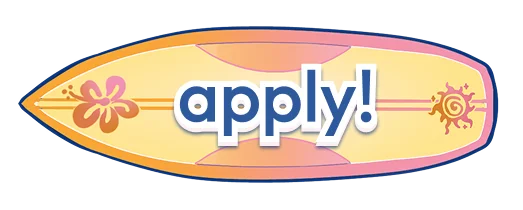
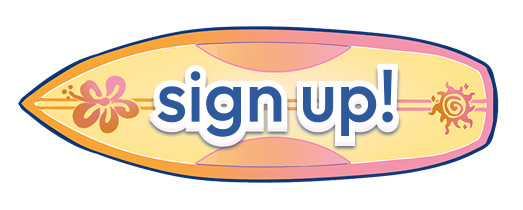
all apply to sign up, added service hours in quickguide and ultimate guide and home page

diff --git a/app/ultimateguide/page.tsx b/app/ultimateguide/page.tsx
@@ -54,7 +54,7 @@ export default function GuideContent() {
 
 			<div className="text-center pb-[3vh]" style={{ padding: "0 9.1% 3vh" }}>
 				<p style={{ fontSize: "2.33vw", fontWeight: 700, color: "rgb(46,88,155)", lineHeight: 1.4 }}>
-					Organising a Sunbeam is gonna be very rewarding because:
+					Organizing a Sunbeam is gonna be very rewarding because:
 				</p>
 			</div>
 
@@ -141,7 +141,7 @@ export default function GuideContent() {
 							1) JOIN HACK CLUB SLACK!! And the #sunbeam channels:
 						</p>
 						<p style={{ fontSize: "2.33vw", fontWeight: 400, color: "#2E599C", lineHeight: 1.6, marginLeft: "3vw"}}>
-							SUPER IMPORTANT!! Slack is how we communicate with organisers. If your city doesn't have a Sunbeam channel yet, make one (in the format: #sunbeam-city, e.g. #sunbeam-london).
+							SUPER IMPORTANT!! Slack is how we communicate with organizers. If your city doesn't have a Sunbeam channel yet, make one (in the format: #sunbeam-city, e.g. #sunbeam-london).
 						</p>
 					</div>
 				</div>
@@ -151,7 +151,7 @@ export default function GuideContent() {
 					<div style={{ display: "flex", gap: "3vw", alignItems: "flex-start", marginBottom: "3vh" }}>
 						<div style={{ flex: "1 1 0" }}>
 							<p style={{ fontSize: "2.62vw", fontWeight: 700, color: "#2E599C", lineHeight: 1.4, marginBottom: "1.5vh" }}>
-								2) (avengers) Assemble a team of 3-6 organisers!
+								2) (avengers) Assemble a team of 3-6 organizers!
 							</p>
 							<p style={{ fontSize: "2.33vw", fontWeight: 400, color: "#2E599C", lineHeight: 1.6, marginBottom: "1.5vh", marginLeft: "3vw" }}>
 								Reach out to people you enjoy working with! Start with a slack channel and a shared to-do list (including steps in this guide!) Delegate tasks based on what people want to do.
@@ -197,7 +197,7 @@ export default function GuideContent() {
 										Too small of a team (NOT 1 person)
 									</li>
 									<li style={{ fontSize: "1.94vw", fontWeight: 400, color: "#0E387A", lineHeight: 1.6, marginTop: "1.5vh" }}>
-										Trying to organise everything with fancy project management tools
+										Trying to organize everything with fancy project management tools
 									</li>
 								</ul>
 							</div>
@@ -205,7 +205,7 @@ export default function GuideContent() {
 					</div>
 
 					<p style={{ fontSize: "2.33vw", fontWeight: 400, color: "rgb(46,88,155)", lineHeight: 1.6 }}>
-						I'd HIGHLY suggest meeting your team in-person or doing calls often to get to know everyone. Good vibes = happy team = fun organising.
+						I'd HIGHLY suggest meeting your team in-person or doing calls often to get to know everyone. Good vibes = happy team = fun organizing.
 					</p>
 				</div>
 
@@ -439,7 +439,7 @@ export default function GuideContent() {
 								It's free!! Don't drop $5000 on a venue that's 2 rooms and a couch. 
 							</li>
 							<li style={{ fontSize: "2.33vw", fontWeight: 400, color: "#0E387A", lineHeight: 1.6 }}>
-								Roomy (Minimum: One main space, small organiser room, washrooms, TV/projector, speakers/PA)
+								Roomy (Minimum: One main space, small organizer room, washrooms, TV/projector, speakers/PA)
 							</li>
 						</ul>
 					</div>
@@ -576,7 +576,7 @@ export default function GuideContent() {
 						1) Make a run of show...
 					</p>
 					<p style={{ fontSize: "2.33vw", fontWeight: 400, color: "rgb(46,88,155)", lineHeight: 1.6, marginBottom: "1.5vh", marginLeft: "3vw" }}>
-						Run of show = time block it. You need to know what your organisers are doing and when, which will save time running from room to room to find each other.
+						Run of show = time block it. You need to know what your organizers are doing and when, which will save time running from room to room to find each other.
 					</p>
 					<p style={{ fontSize: "2.33vw", fontWeight: 400, color: "rgb(46,88,155)", lineHeight: 1.6, marginBottom: "1.5vh", marginLeft: "3vw" }}>
 						PLEASE <span style={{ fontWeight: 500 }}>leave a 30 minute window after submissions are due</span> for last-minute issues. Trust us. (see a sample run of show here.)
@@ -663,6 +663,17 @@ export default function GuideContent() {
 						</p>
 					</div>
 				</div>
+
+				{/* service hours */}
+				<div>
+					<p style={{ fontSize: "2.62vw", fontWeight: 800, color: "rgb(46,88,155)", lineHeight: 1.4, marginBottom: "2vh" }}>
+						Service Hours
+					</p>
+					<p className="text-center" style={{ fontSize: "2.33vw", fontWeight: 400, color: "rgb(46,88,155)", lineHeight: 1.6, marginBottom: "1.5vh" }}>
+						Organizing a Sunbeam is going to take a lot of your time, so if you document how many hours you worked in a neat spreadsheet, Hack Club can sign off on them for you to use. 
+					</p>
+				</div>
+				
 			</div>
 
 			{/* WHAT'S NEXT */}

diff --git a/app/page.tsx b/app/page.tsx
@@ -112,7 +112,7 @@ export default function Home() {
 				{/* What is Sunbeam Social */}
 				<div className="flex flex-col relative z-5 items-center justify-center w-full">
 					<h2 className="galindo text-[5.5vh] md:text-[6.5vh] text-[#D77393] text-center leading-tight mb-0">
-						What is a Sunbeam Social?
+						How would you lead a Sunbeam Social?
 					</h2>
 					<div className="relative w-[95vw] md:w-[62vw] mt-0 mb-[1vh] md:mb-[1.5vh] flex flex-col items-center justify-center">
 						<Image
@@ -154,7 +154,7 @@ export default function Home() {
 
 				<div className="flex flex-col relative z-5 items-center justify-center">
 					<h2 className="galindo text-[6.5vh] text-[#D88127] text-center w-[80vw] md:w-[50vw] leading-[7.5vh] mb-[1vh]">
-						How do you organize a Sunbeam Social?
+						How to get started:
 					</h2>
 
 					{/* Three cards */}
@@ -250,10 +250,14 @@ export default function Home() {
 							src="/imgs/apply.webp"
 							width={523}
 							height={210}
-							alt="apply!"
+							alt="sign up!"
 							className="w-[60vw] md:w-[25vw] h-auto mx-auto"
 						/>
 					</a>
+
+					<p className="outfit text-[#2E599C]/70 text-center text-[1.4vh] md:text-[1.75vh] italic mt-[1.5vh] tracking-wide" style={{ fontSize: "1.33vw", fontWeight: 400, color: "rgb(46,88,155)", lineHeight: 1.6, marginTop: "10vh", marginBottom: "2vw" }}>
+						Organizers can get service hours for organizing a Sunbeam social. Read the Ultimate Guide for more information. 
+					</p>
 				</div>
 			</div>
 

diff --git a/app/apply/ShorterGuideContent.jsx b/app/apply/ShorterGuideContent.jsx
@@ -44,7 +44,7 @@ export default function ShorterGuideContent() {
 
 			<div className="text-center pb-[3vh]" style={{ padding: "0 9.1% 3vh" }}>
 				<p style={{ fontSize: "2.1vw", fontWeight: 700, color: "rgb(46,88,155)", lineHeight: 1.4 }}>
-					Organising a Sunbeam is gonna be very rewarding because:
+					Organizing a Sunbeam is gonna be very rewarding because:
 				</p>
 			</div>
 
@@ -140,6 +140,9 @@ export default function ShorterGuideContent() {
 						</p>
                         <p style={{ padding: "0.5vw 0" }}>
 							<span style={{fontWeight: 600}}>6) Payouts FROM US!!</span> That’s right - for every signup you get for your Sunbeam Social, we’ll send you $$ to run your event!
+						</p>
+						<p style={{ padding: "0.5vw 0" }}>
+							<span style={{fontWeight: 600}}>7) Service Hours!</span> Track how many hours you organize on a neat spreadsheet and we'll sign off on them for you to use
 						</p>
 				</div>
             </div>